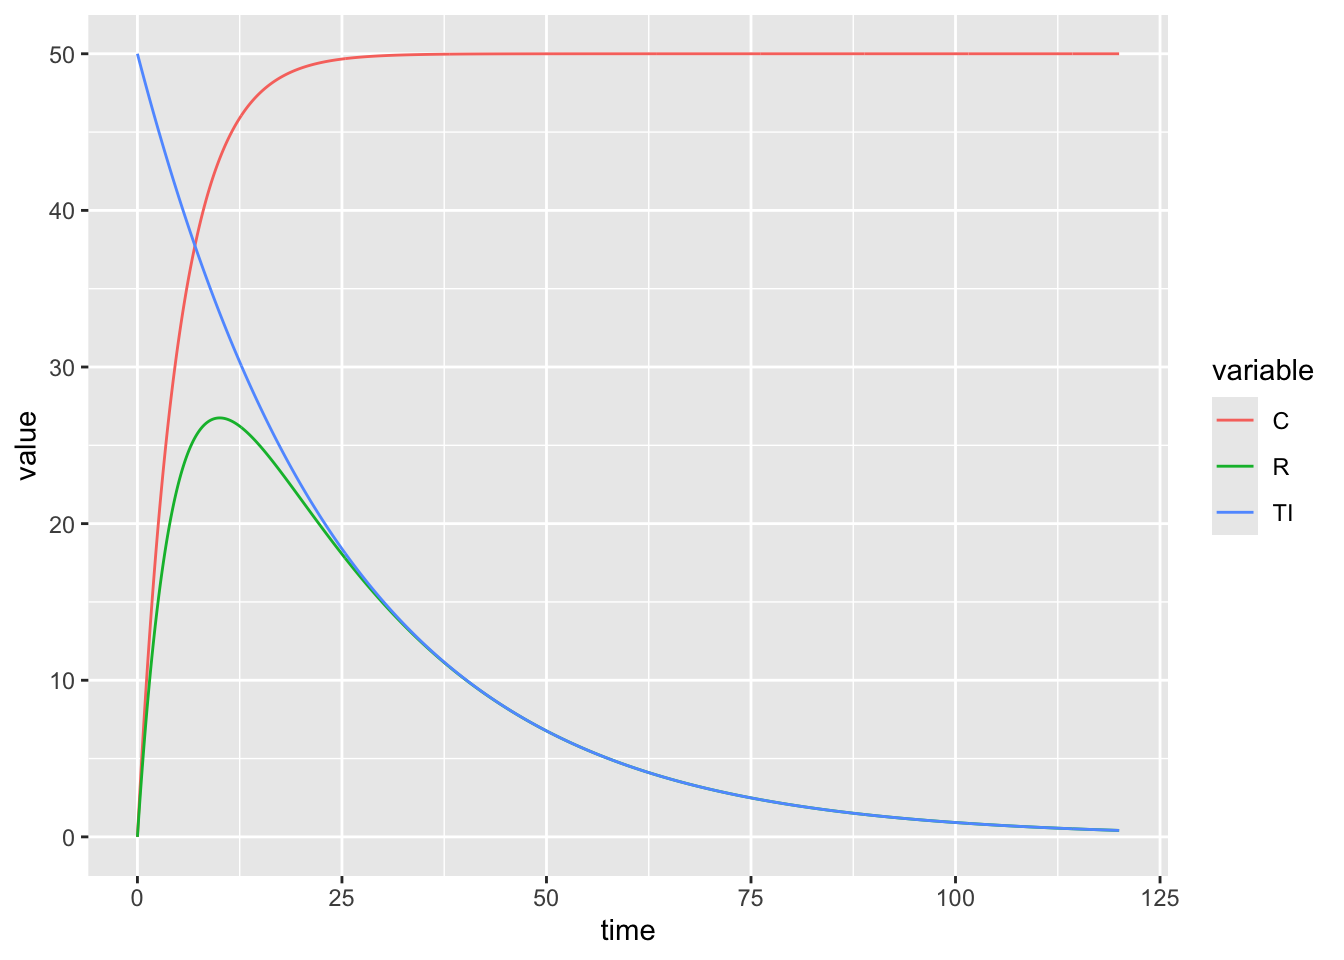
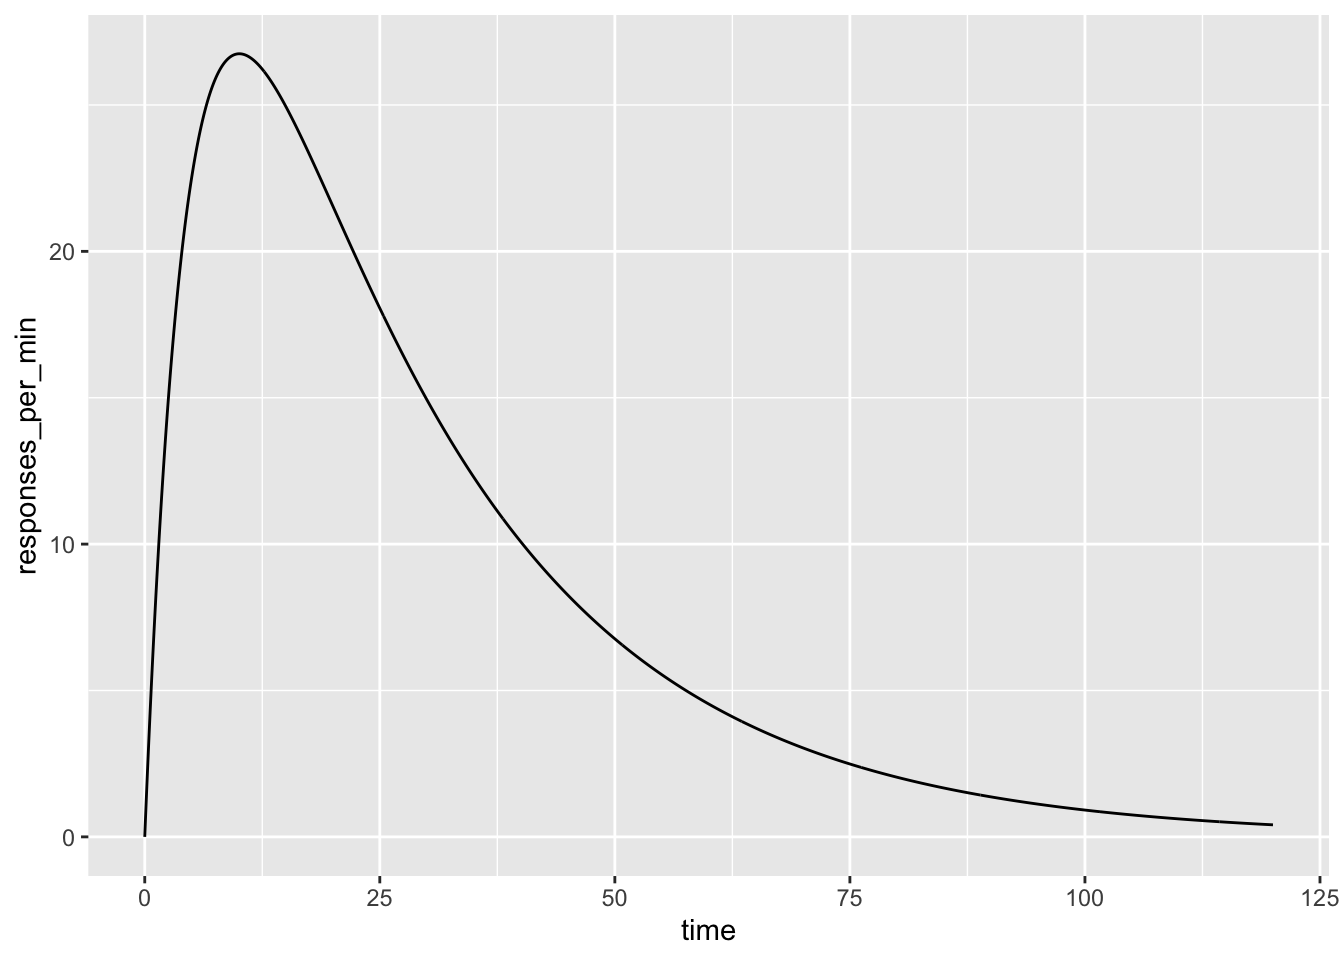
arousal

diff --git a/docs/post/2025-06-23/index.html b/docs/post/2025-06-23/index.html
@@ -128,9 +128,9 @@
 
                   
                   <span class="file-info-divider"></span>
-                  Modified <relative-time datetime="Mon, 23 Jun 2025 23:52:54 &#43;0900"
+                  Modified <relative-time datetime="Tue, 24 Jun 2025 00:39:33 &#43;0900"
                     class="no-wrap">
-                    Mon, 23 Jun 2025 23:52:54 &#43;0900</relative-time>
+                    Tue, 24 Jun 2025 00:39:33 &#43;0900</relative-time>
                   
                 </div>
               </div>
@@ -160,7 +160,7 @@
                         </div>
                       </div>
                     </details-menu>
-                      2339 Words
+                      3345 Words
                     
 
                   </div>
@@ -215,7 +215,8 @@
 <p>今回の記事では<span class="citation">(<a href="#ref-Killeen2003">Killeen and Sitomer 2003</a>)</span>の論文で行われた実験を段階的に見てどのように原理のモデルが作られたのかを確認してきます。</p>
 <div id="一日一回の食事" class="section level2">
 <h2>一日一回の食事</h2>
-<p>まずは、1日1回ハトに餌を与えてみましょう。その時の活動量を計測すると、給餌直後に最も活動が高まり、その後は急速に活動量が下がるそうです。wikiに載っている例だと、給餌後15分間の活動量を計測したそうです。そしてその様子はこんな式で表現できるそうです。</p>
+<p>まずは、1日1回ハトに餌を与えてみましょう。その時の活動量を計測すると、給餌直後に最も活動が高まり、その後は急速に活動量が下がるそうです。ここでいう活動というのは、オペラント条件づけの対象になるようなレバー押しといった行動ではなく飼育小屋やスキナー箱の内部での徘徊といった行動を指します。</p>
+<p>そしてその活動の様子はこんな式で表現できるそうです。</p>
 <p><span class="math display">\[
 b(t) = b_1 * e^ {\frac{-t}\alpha}
 \]</span></p>
@@ -226,7 +227,7 @@ b(t) = b_1 * e^ {\frac{-t}\alpha}
 <li><p>α ：時間定数。時間の経過を調整する定数とでも捉えています。</p></li>
 <li><p>e：ネイピア数</p></li>
 </ul>
-<p>グラフにするとこんな感じ。給餌後は最も活動的で、その後段々と活動量が減衰していくんですね。図にするとこんな感じ。</p>
+<p>グラフにするとこんな感じ。給餌後は最も活動的で、その後段々と活動量が減衰していくんですね。</p>
 <pre class="r"><code>##なんのパッケージ使ってるかを示すために、見えるようにしておきます。
 rm(list = ls())
 library(tidyverse)</code></pre>
@@ -246,13 +247,13 @@ library(tidyverse)</code></pre>
 }
 DF_activity &lt;- data.frame(
   time_sec = seq(from = 0, to = 13, by = 0.1)
-  ,b_t = activity_fun(t = seq(from = 0, to = 13, by = 0.1))
+  ,responses_per_minute = activity_fun(t = seq(from = 0, to = 13, by = 0.1))
 )
 DF_activity %&gt;% ggplot(
-  aes(x = time_sec, y = b_t)
+  aes(x = time_sec, y = responses_per_minute)
 ) + geom_line() </code></pre>
 <p><img src="https://takuto-psych.github.io/post/2025-06-23/index_files/figure-html/unnamed-chunk-2-1.png" width="672" /></p>
-<p>直感的にも納得いきます。毎日決まった時刻にご飯が出てくるだけの環境にいると、ご飯が出てきた直後にだけ活動レベルが高まり、その後、急激に活動レベルが減衰していくみたいです。特に飼ったことはないですが、人間とコミュニケーションを取るとは考えられていない愛玩動物を飼育したら、こんな挙動をしそうですね。カエルでも飼ってみようかな。</p>
+<p>直感的にも納得いきます。毎日決まった時刻にご飯が出てくるだけの環境にいると、ご飯が出てきた直後にだけ活動レベルが高まり、その後、急激に活動レベルが減衰していく。特に飼ったことはないですが、人間とコミュニケーションを取るとは考えられていない愛玩動物を飼育したら、こんな挙動をしそうですね。カエルでも飼ってみようかな。</p>
 </div>
 <div id="秒ごとに餌を与えてみる" class="section level2">
 <h2>〇〇秒ごとに餌を与えてみる</h2>
@@ -263,11 +264,11 @@ b(n) = b_1 * (1 - e^ {\frac{-n}\alpha})
 \]</span></p>
 <ul>
 <li><p>b<sub>1</sub>：切片。切片というよりも感覚的には給餌直後の上限ですね。</p></li>
-<li><p>t：これまでに連続で何回給餌されたか</p></li>
+<li><p>n：これまでに連続で何回給餌されたか</p></li>
 <li><p>α ：何らかの定数。これまでの給餌履歴を調整する定数とでも捉えます。</p></li>
 <li><p>e：ネイピア数</p></li>
 </ul>
-<p>今回のこの給餌の頻度をあげるという操作は、あくまで固定時間経過後に何らかのオペラント行動を求めて、その行動に対しての強化というわけではないです。こういった行動とは独立したスケジュールをFixed Time（固定時間）スケジュールと呼ぶそうです。知らんかった。</p>
+<p>今回のこの給餌の頻度をあげるという環境側の操作は、あくまで固定時間を操作して、その時間が経過した後に勝手に餌が出てくるようにするというだけです。そのため、何らかのオペラント行動を求めた望ましい行動に対しての強化という性質のものではないです。こういった被験者の行動とは独立したスケジュールをFixed Time（固定時間）スケジュールと呼ぶそうです。知らんかった。</p>
 <p>では、この関数に従って、給餌履歴を元にした活動量の推移を描いてみましょう。こんな感じになります。</p>
 <pre class="r"><code>##さっきの関数を流用する
 DF_reward_history &lt;- data.frame(
@@ -285,43 +286,56 @@ DF_reward_history &lt;- data.frame(
 ) %&gt;% pivot_longer(
   cols = - n
   ,names_to = &quot;variable&quot;
-  ,values_to = &#39;value&#39;
+  ,values_to = &#39;responses_per_minute&#39;
 )
 
 DF_reward_history %&gt;% ggplot(
   .
-  ,aes(x = n, y = value, colour = variable)
+  ,aes(x = n, y = responses_per_minute, colour = variable)
 ) + geom_line()</code></pre>
 <p><img src="https://takuto-psych.github.io/post/2025-06-23/index_files/figure-html/unnamed-chunk-3-1.png" width="672" /></p>
 <p>なるほど。</p>
 <p>固定時間で餌が出てくると時間間隔が狭い方が、活動量の上限は高いようです。まあこれは一番最後に式を書きますので、ここでは触れません。</p>
-<p>それよりも注目したいのは、これまでの給餌経験の回数の累積に対して、最初は急速に活動上昇が生じ、その後は上限が来てしまうという動きをするそうです。</p>
-<p>確かに、何となく理解はできます。仮に僕が禁固刑に行って決まった時刻に（だいたい5時間おきかな）にご飯もらえたとしたら、ご飯もらう回数が増えていくに従って室内徘徊頻度上がりそうですね。どっかで上限があるでしょうが。</p>
+<p>また、これまでの給餌経験の回数の累積に対して、最初は急速に活動上昇が生じ、その後は上限が来てしまうという動きをするそうです。</p>
+<p>確かに、何となく理解はできます。仮に僕が禁固刑に行って決まった時刻に（だいたい5時間おきかな）にご飯もらえたとしたら、ご飯もらった回数が増えていくに従って室内徘徊頻度上がりそうですね。どっかで上限があるでしょうが。</p>
 <p>さて、何となく直感的にこんなグラフになりそうだなというのは納得できたのですが、Killeenさんはこの結果には問題があるという指摘をして追加の実験をしました。</p>
-<p>給餌をすることで自発的な活動が上昇することはは、実は迷信的な行動の学習かもしれません。</p>
-<p>本来FTスケジュールなので、被験者は動こうが動かなかろうが、それに関係なく餌が出てきます。にもかかわらず、被験者が何か動いた後に餌が出てきてしまったとしたら、その餌は謎の動きを迷信的に引き起こす強化子になってしまうかもしれません。ちなみに、僕もそんな環境にいたら服を脱いだ後にサイドロールとエビを永遠にすると思います。</p>
+<p>その問題とは、給餌をすることで自発的な活動が上昇することは、実は迷信的な行動を学習した結果かもしれないというものです。</p>
+<p>本来FTスケジュールなので、被験者が動こうが動かなかろうが、それに関係なく餌が出てきます。にもかかわらず、被験者が何か動いた後に餌が出てきてしまったとしたら、その餌は謎の動きを迷信的に引き起こす強化子になってしまうかもしれません。ちなみに、僕もそんな環境にいたら服を脱いだ後にサイドロールとエビを永遠にすると思います。異常独身男性の完成です。</p>
 <iframe width="560" height="315" src="https://www.youtube.com/embed/tI_x5r-qPkY?si=Y9Vg5eRyII_rvsTQ" title="YouTube video player" frameborder="0" allow="accelerometer; autoplay; clipboard-write; encrypted-media; gyroscope; picture-in-picture; web-share" referrerpolicy="strict-origin-when-cross-origin" allowfullscreen>
 </iframe>
 <p>人間に当てはめてみたら笑えますが、動物とは会話ができないので迷信的に行動が増えているのかどうかを実験デザインの工夫で検証しなくてはなりません。</p>
 </div>
 <div id="秒ごとに餌を与えるただし給餌前に反応したら待てだ" class="section level2">
 <h2>〇〇秒ごとに餌を与える。ただし、給餌前に反応したら「待て」だ</h2>
-<p>Killeenさんは、そんな迷信的な行動の増加を</p>
-<p>また、全体的な活動に関しての時間経過の理論モデルは、次の式のようになっているそうです。</p>
-<p><span class="math display">\[
-R = A × (e^{\frac{-t}C} - e^{\frac{-t}I})
-\]</span></p>
-<p>A：覚醒</p>
-<p>I：時間的な抑制</p>
-<p>C：相反する他の行動</p>
-<pre class="r"><code>general_activity_fun &lt;- function(C = 25, TI = 5, A = 50, t){
+<p>Killeenさんは、そんな迷信的な行動の増加を「待て」を使って制御しました。</p>
+<p>具体的には、FT〇〇secの〇〇秒経過時点で被験者が動いていた場合には5秒間餌を与えないことにしたそうです。こういった手続きをDROというそうです。</p>
+<p>この操作により、餌の提示直前に被験者は自発的な活動をしなくなります。もしこの制御が完璧に効いたとしたら、活動が完全になくなるかもしれません。結果はどうだったでしょうか。</p>
+<p>結果はこんなグラフになりました。</p>
+<pre class="r"><code>##式の説明の前に関数書いているので順番は逆だけど、図が欲しいので
+general_activity_fun &lt;- function(C = 25, TI = 5, A = 50, t){
   R = A * (
     (exp(1)^ (-t/C)) - (exp(1)^ (-t/TI)) 
   )
   return(R)
 }
 
-GENERAL_ACTIVIY_DF &lt;- data.frame(
+DF_general_activity &lt;- data.frame(
+  time = seq(from = 0, to = 2 * 60, by = 0.1)
+  ,responses_per_min = general_activity_fun(
+    t = seq(from = 0, to = 2 * 60, by = 0.1)
+  )
+
+) 
+DF_general_activity %&gt;% ggplot(
+  aes(x = time, y = responses_per_min)
+) + geom_line(
+)</code></pre>
+<p><img src="https://takuto-psych.github.io/post/2025-06-23/index_files/figure-html/unnamed-chunk-4-1.png" width="672" /></p>
+<p>このグラフの横軸は、直前に給餌されてから何秒経ったかを意味します。一方、縦軸は、1分間の平均活動量。また、ここで計測している活動というのは、（元論文に当たっていないので多分ですが）床の上での徘徊を指しています。</p>
+<p>さて、給餌直後には活動の現象が見られます。なぜなら、ここではホッパー（餌の受け皿）の周りを探すといったような餌に対しての目標志向的な行動が現れるためです。このような行動を行うと、スキナー箱の中での徘徊というような活動は減少し、その記録は床の感圧板には記録されません。だから、「活動」は減っているわけですね。</p>
+<p>一方、少し経ってからは、活動は上がります。これは、そういった目標志向的な行動が時間経過で減ってきて、「活動」に移行したことを示します。その後は活動は下がっていきます。これは、待て（DRO）によって、要らない動きをしてしまうと、給餌をお預けされてしまうために生じるわけです。</p>
+<p>さて、この時間と活動のグラフは実は、餌が持っている活動性を高めるという効果と、待て（DRO）による活動低下の効果を合わせた結果だと考えられます。それを表現したのが以下のグラフです。</p>
+<pre class="r"><code>DF_general_activity &lt;- data.frame(
   time = seq(from = 0, to = 2 * 60, by = 0.1)
   ,R = general_activity_fun(
     t = seq(from = 0, to = 2 * 60, by = 0.1)
@@ -341,11 +355,22 @@ GENERAL_ACTIVIY_DF &lt;- data.frame(
   ,names_to = &quot;variable&quot;
   ,values_to = &#39;value&#39;
 )
-GENERAL_ACTIVIY_DF %&gt;% ggplot(
+DF_general_activity %&gt;% ggplot(
   aes(x = time, y = value, colour = variable)
 ) + geom_line() </code></pre>
-<p><img src="https://takuto-psych.github.io/post/2025-06-23/index_files/figure-html/unnamed-chunk-4-1.png" width="672" /></p>
-<p>さて、このグラフを解釈するとですね</p>
+<p><img src="https://takuto-psych.github.io/post/2025-06-23/index_files/figure-html/unnamed-chunk-5-1.png" width="672" /></p>
+<p>先ほどのグラフは緑の線です。赤は、活動に対しての競合の行動（ホッパーを漁ったり）、青は時間によって生じる活動レベルの減衰です。この赤と青のグラフを合わせたものとして、緑のグラフが出来上がると<span class="citation">(<a href="#ref-Killeen2003">Killeen and Sitomer 2003</a>)</span>は表現しました。僕はこのセンテンスと式を論文で見て理解ができた時にかなりテンションが上がりました。まあ理解するのに20hかかりましたけども。</p>
+<p>それがこの式</p>
+<p><span class="math display">\[
+R = A × (e^{\frac{-t}C} - e^{\frac{-t}I})
+\]</span></p>
+<p>R：活動量</p>
+<p>A：覚醒</p>
+<p>I：時間的な抑制</p>
+<p>C：競合する他の行動</p>
+</div>
+<div id="活動の量の上限は給餌の頻度に対して線形に増加する" class="section level2">
+<h2>活動の量の上限は給餌の頻度に対して線形に増加する</h2>
 </div>
 <div id="引用文献" class="section level2 unnumbered">
 <h2>引用文献</h2>

diff --git a/docs/profile/index.html b/docs/profile/index.html
@@ -194,9 +194,9 @@ jsPsych
 
                   
                   <span class="file-info-divider"></span>
-                  Modified <relative-time datetime="Mon, 23 Jun 2025 23:31:20 &#43;0900"
+                  Modified <relative-time datetime="Tue, 24 Jun 2025 00:39:34 &#43;0900"
                     class="no-wrap">
-                    Mon, 23 Jun 2025 23:31:20 &#43;0900</relative-time>
+                    Tue, 24 Jun 2025 00:39:34 &#43;0900</relative-time>
                   
                 </div>
               </div>

diff --git a/docs/post/2022-03-06-/index.html b/docs/post/2022-03-06-/index.html
@@ -128,9 +128,9 @@
 
                   
                   <span class="file-info-divider"></span>
-                  Modified <relative-time datetime="Mon, 23 Jun 2025 23:31:16 &#43;0900"
+                  Modified <relative-time datetime="Tue, 24 Jun 2025 00:39:28 &#43;0900"
                     class="no-wrap">
-                    Mon, 23 Jun 2025 23:31:16 &#43;0900</relative-time>
+                    Tue, 24 Jun 2025 00:39:28 &#43;0900</relative-time>
                   
                 </div>
               </div>

diff --git a/docs/post/2022-03-12-/index.html b/docs/post/2022-03-12-/index.html
@@ -128,9 +128,9 @@
 
                   
                   <span class="file-info-divider"></span>
-                  Modified <relative-time datetime="Mon, 23 Jun 2025 23:31:17 &#43;0900"
+                  Modified <relative-time datetime="Tue, 24 Jun 2025 00:39:30 &#43;0900"
                     class="no-wrap">
-                    Mon, 23 Jun 2025 23:31:17 &#43;0900</relative-time>
+                    Tue, 24 Jun 2025 00:39:30 &#43;0900</relative-time>
                   
                 </div>
               </div>

diff --git a/docs/post/2022-03-15-/index.html b/docs/post/2022-03-15-/index.html
@@ -128,9 +128,9 @@
 
                   
                   <span class="file-info-divider"></span>
-                  Modified <relative-time datetime="Mon, 23 Jun 2025 23:31:18 &#43;0900"
+                  Modified <relative-time datetime="Tue, 24 Jun 2025 00:39:31 &#43;0900"
                     class="no-wrap">
-                    Mon, 23 Jun 2025 23:31:18 &#43;0900</relative-time>
+                    Tue, 24 Jun 2025 00:39:31 &#43;0900</relative-time>
                   
                 </div>
               </div>

diff --git a/docs/post/2025-06-13-/index.html b/docs/post/2025-06-13-/index.html
@@ -128,9 +128,9 @@
 
                   
                   <span class="file-info-divider"></span>
-                  Modified <relative-time datetime="Mon, 23 Jun 2025 23:31:19 &#43;0900"
+                  Modified <relative-time datetime="Tue, 24 Jun 2025 00:39:32 &#43;0900"
                     class="no-wrap">
-                    Mon, 23 Jun 2025 23:31:19 &#43;0900</relative-time>
+                    Tue, 24 Jun 2025 00:39:32 &#43;0900</relative-time>
                   
                 </div>
               </div>

diff --git a/docs/researchachievement/index.html b/docs/researchachievement/index.html
@@ -128,9 +128,9 @@
 
                   
                   <span class="file-info-divider"></span>
-                  Modified <relative-time datetime="Mon, 23 Jun 2025 23:31:21 &#43;0900"
+                  Modified <relative-time datetime="Tue, 24 Jun 2025 00:39:34 &#43;0900"
                     class="no-wrap">
-                    Mon, 23 Jun 2025 23:31:21 &#43;0900</relative-time>
+                    Tue, 24 Jun 2025 00:39:34 &#43;0900</relative-time>
                   
                 </div>
               </div>

diff --git a/docs/researchinterest/index.html b/docs/researchinterest/index.html
@@ -155,9 +155,9 @@
 
                   
                   <span class="file-info-divider"></span>
-                  Modified <relative-time datetime="Mon, 23 Jun 2025 23:31:21 &#43;0900"
+                  Modified <relative-time datetime="Tue, 24 Jun 2025 00:39:34 &#43;0900"
                     class="no-wrap">
-                    Mon, 23 Jun 2025 23:31:21 &#43;0900</relative-time>
+                    Tue, 24 Jun 2025 00:39:34 &#43;0900</relative-time>
                   
                 </div>
               </div>
